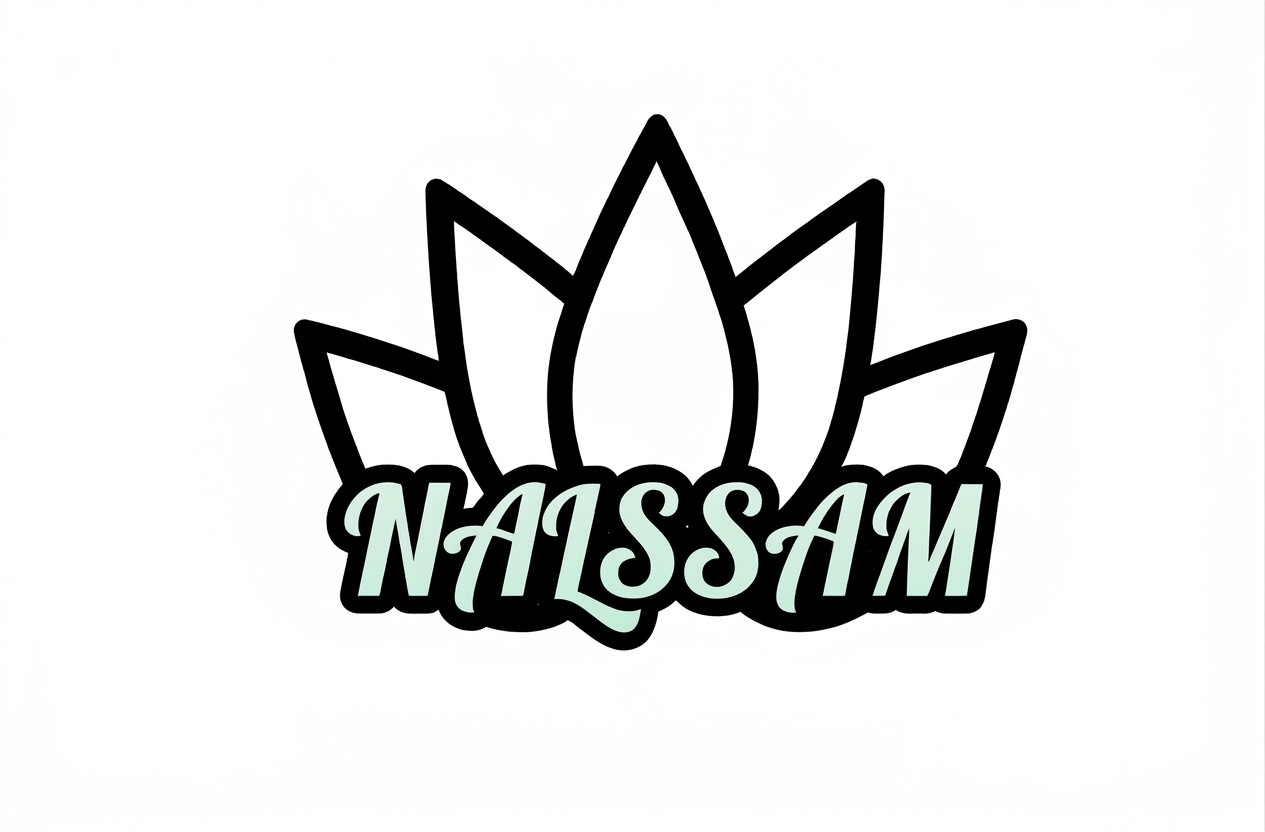
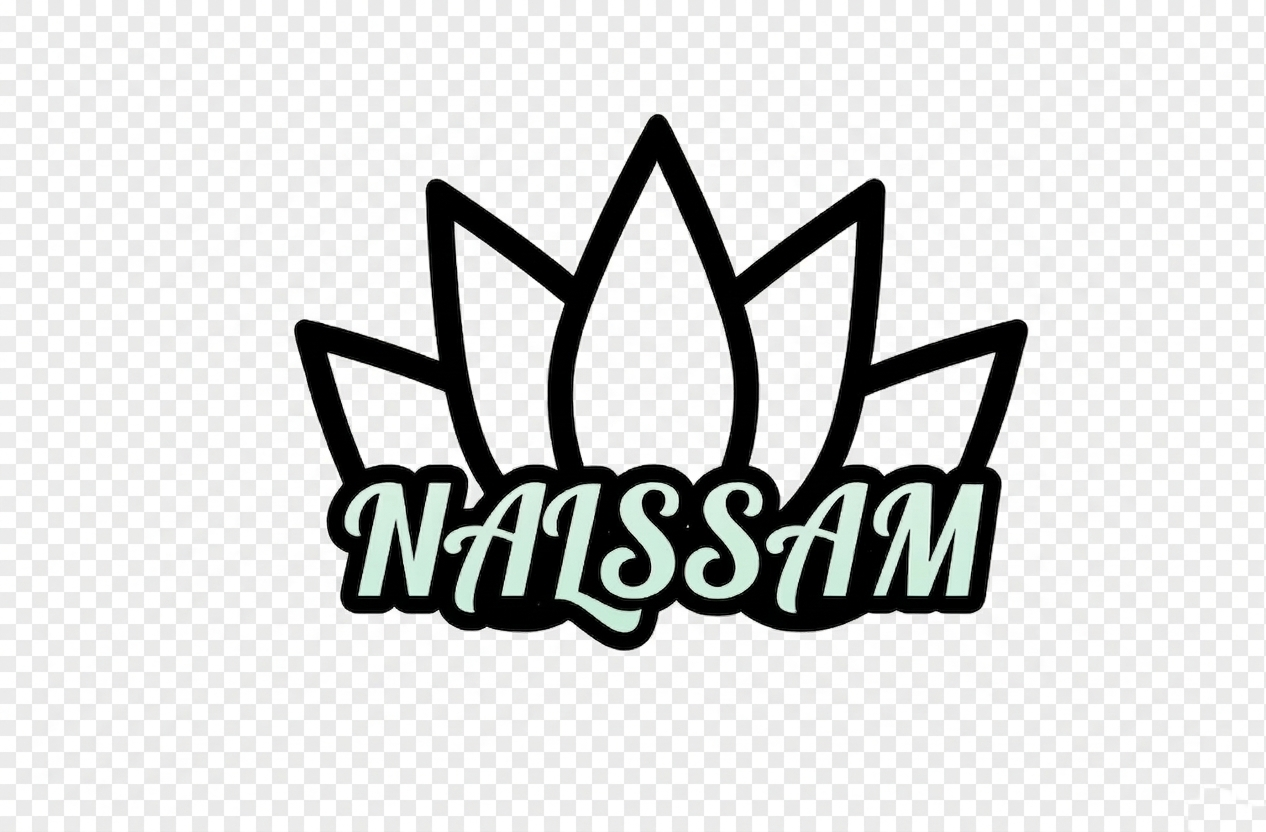
feat: Admin Dashboard 버그 제보 모달 추가 + 동아리 로고 업데이트
- 채팅 헤더에 '버그 제보' 버튼 추가 (Admin 전용, 미해결 건수 뱃지)
- 버튼 클릭 시 전체 bug_reports 팝업 표시
- Admin이 체크박스로 해결 표시 → 취소선 + 흐림 처리
- resolved 상태 Supabase 즉시 반영 (bug_reports.resolved 컬럼)
- 동아리 로고 이미지 업데이트 (nalssam, path-finder, unify)

diff --git a/app/admin-dashboard/page.tsx b/app/admin-dashboard/page.tsx
@@ -4,7 +4,7 @@
 import { useState, useEffect, useRef, useCallback } from 'react';
 import {
   Users, Shield, BarChart2, Send,
-  CheckCircle2, XCircle, AlertTriangle, Bell, Bug,
+  CheckCircle2, XCircle, AlertTriangle, Bell, Bug, X,
 } from 'lucide-react';
 import { createClient } from '@/lib/supabase/client';
 import { cn } from '@/utils/cn';
@@ -18,7 +18,7 @@ type AgendaRow    = { id: string; title: string; category: string; is_open: bool
 type ConfirmModal = { title: string; body: string; onConfirm: () => Promise<void> };
 type MyProfile    = { id: string; name: string; role: string };
 type AdminCall    = { id: string; caller_id: string; caller_name: string; created_at: string };
-type BugReport    = { id: string; reporter_name: string; title: string; description: string; category: string; created_at: string };
+type BugReport    = { id: string; reporter_name: string; title: string; description: string; category: string; created_at: string; resolved: boolean };
 
 const ADMIN_COMMANDS = ['/kick', '/ban', '/timeout', '/announcement'];
 const CMD_HINT: Record<string, string> = {
@@ -54,12 +54,15 @@ export default function AdminDashboardPage() {
   const [logs, setLogs]                 = useState<AdminLog[]>([]);
   const [agendas, setAgendas]           = useState<AgendaRow[]>([]);
   const [pendingCalls, setPendingCalls] = useState<AdminCall[]>([]);
-  const [bugReports, setBugReports]     = useState<BugReport[]>([]);
-  const [chatInput, setChatInput]       = useState('');
-  const [showCmds, setShowCmds]         = useState(false);
-  const [confirmModal, setConfirmModal] = useState<ConfirmModal | null>(null);
-  const [confirming, setConfirming]     = useState(false);
-  const [sending, setSending]           = useState(false);
+  const [bugReports, setBugReports]         = useState<BugReport[]>([]);
+  const [showBugModal, setShowBugModal]     = useState(false);
+  const [allBugReports, setAllBugReports]   = useState<BugReport[]>([]);
+  const [bugModalLoading, setBugModalLoading] = useState(false);
+  const [chatInput, setChatInput]           = useState('');
+  const [showCmds, setShowCmds]             = useState(false);
+  const [confirmModal, setConfirmModal]     = useState<ConfirmModal | null>(null);
+  const [confirming, setConfirming]         = useState(false);
+  const [sending, setSending]               = useState(false);
   const bottomRef     = useRef<HTMLDivElement>(null);
   const announceChRef = useRef<ReturnType<typeof supabase.channel> | null>(null);
 
@@ -161,18 +164,18 @@ export default function AdminDashboardPage() {
       if (prof?.role === 'admin') {
         const { data: bugsInit } = await supabase
           .from('bug_reports')
-          .select('id, title, description, category, created_at, profiles!reporter_id(name)')
+          .select('id, title, description, category, created_at, resolved, profiles!reporter_id(name)')
           .order('created_at', { ascending: false })
           .limit(10);
         if (bugsInit) {
-          setBugReports(bugsInit.map((b: any) => ({ ...b, reporter_name: b.profiles?.name ?? '알 수 없음' })));
+          setBugReports(bugsInit.map((b: any) => ({ ...b, reporter_name: b.profiles?.name ?? '알 수 없음', resolved: b.resolved ?? false })));
         }
 
         bugCh = supabase.channel('bug-report-stream')
           .on('postgres_changes', { event: 'INSERT', schema: 'public', table: 'bug_reports' }, async (payload: { new: any }) => {
             const row = payload.new;
             const { data: p } = await supabase.from('profiles').select('name').eq('id', row.reporter_id).single();
-            setBugReports((prev: BugReport[]) => [{ ...row, reporter_name: p?.name ?? '알 수 없음' }, ...prev].slice(0, 10));
+            setBugReports((prev: BugReport[]) => [{ ...row, reporter_name: p?.name ?? '알 수 없음', resolved: false }, ...prev].slice(0, 10));
           })
           .subscribe();
       }
@@ -336,6 +339,31 @@ export default function AdminDashboardPage() {
     await refreshAgendas();
   }, [supabase, refreshAgendas]);
 
+  // ── 버그 제보 모달 열기 (전체 목록 fetch) ─────────────────────────
+  const openBugModal = useCallback(async () => {
+    setShowBugModal(true);
+    setBugModalLoading(true);
+    const { data } = await supabase
+      .from('bug_reports')
+      .select('id, title, description, category, created_at, resolved, profiles!reporter_id(name)')
+      .order('created_at', { ascending: false });
+    if (data) {
+      setAllBugReports(data.map((b: any) => ({
+        ...b,
+        reporter_name: b.profiles?.name ?? '알 수 없음',
+        resolved: b.resolved ?? false,
+      })));
+    }
+    setBugModalLoading(false);
+  }, [supabase]);
+
+  // ── 버그 해결 토글 ────────────────────────────────────────────────
+  const toggleBugResolved = useCallback(async (id: string, resolved: boolean) => {
+    await supabase.from('bug_reports').update({ resolved }).eq('id', id);
+    setAllBugReports((prev: BugReport[]) => prev.map((b: BugReport) => b.id === id ? { ...b, resolved } : b));
+    setBugReports((prev: BugReport[]) => prev.map((b: BugReport) => b.id === id ? { ...b, resolved } : b));
+  }, [supabase]);
+
   if (!myProfile) {
     return (
       <div className="h-[calc(100vh-4rem)] flex items-center justify-center">
@@ -347,6 +375,70 @@ export default function AdminDashboardPage() {
   // ── 렌더 ─────────────────────────────────────────────────────────
   return (
     <>
+      {/* 버그 제보 모달 */}
+      {showBugModal && (
+        <div className="fixed inset-0 z-50 flex items-center justify-center bg-black/50 backdrop-blur-sm">
+          <div className="bg-white dark:bg-dark-surface rounded-2xl shadow-2xl w-full max-w-lg mx-4 flex flex-col max-h-[80vh]">
+            <div className="flex items-center gap-2 px-6 py-4 border-b border-gray-100 dark:border-dark-border shrink-0">
+              <Bug size={16} className="text-red-primary dark:text-yellow-primary" />
+              <span className="font-bold text-gray-800 dark:text-white flex-1">버그 제보 전체 목록</span>
+              <button
+                onClick={() => setShowBugModal(false)}
+                className="p-1.5 rounded-lg text-gray-400 hover:text-gray-600 dark:hover:text-gray-300 hover:bg-gray-100 dark:hover:bg-dark-bg transition-colors"
+              >
+                <X size={16} />
+              </button>
+            </div>
+            <div className="flex-1 overflow-y-auto p-4 space-y-3">
+              {bugModalLoading ? (
+                <p className="text-sm text-gray-400 dark:text-gray-500 text-center py-8">로딩 중...</p>
+              ) : allBugReports.length === 0 ? (
+                <p className="text-sm text-gray-400 dark:text-gray-500 text-center py-8">제보 없음</p>
+              ) : (
+                allBugReports.map((bug: BugReport) => (
+                  <div
+                    key={bug.id}
+                    className={cn(
+                      'rounded-xl border px-4 py-3 space-y-1.5 transition-all',
+                      bug.resolved
+                        ? 'bg-gray-50 dark:bg-dark-bg border-gray-100 dark:border-dark-border opacity-60'
+                        : 'bg-red-primary/5 border-red-primary/20'
+                    )}
+                  >
+                    <div className="flex items-start gap-3">
+                      <input
+                        type="checkbox"
+                        checked={bug.resolved}
+                        onChange={(e: { target: { checked: boolean } }) => toggleBugResolved(bug.id, e.target.checked)}
+                        className="mt-0.5 shrink-0 accent-red-primary dark:accent-yellow-primary w-4 h-4 cursor-pointer"
+                      />
+                      <div className="flex-1 min-w-0 space-y-1">
+                        <div className="flex items-center gap-1.5 flex-wrap">
+                          <span className={cn('text-xs font-bold text-red-primary shrink-0', bug.resolved && 'line-through')}>
+                            [{bug.category}]
+                          </span>
+                          <span className={cn('text-sm font-semibold text-gray-800 dark:text-gray-200', bug.resolved && 'line-through')}>
+                            {bug.title}
+                          </span>
+                        </div>
+                        <p className={cn('text-xs text-gray-500 dark:text-gray-400 leading-relaxed', bug.resolved && 'line-through')}>
+                          {bug.description}
+                        </p>
+                        <div className="flex items-center gap-1.5 text-xs text-gray-400 dark:text-gray-500">
+                          <span>{bug.reporter_name}</span>
+                          <span>·</span>
+                          <span>{fmt(bug.created_at)}</span>
+                        </div>
+                      </div>
+                    </div>
+                  </div>
+                ))
+              )}
+            </div>
+          </div>
+        </div>
+      )}
+
       {/* 확인 모달 */}
       {confirmModal && (
         <div className="fixed inset-0 z-50 flex items-center justify-center bg-black/50 backdrop-blur-sm">
@@ -458,6 +550,20 @@ export default function AdminDashboardPage() {
               <span className="text-xs px-2 py-0.5 rounded-full bg-yellow-primary/10 text-yellow-primary font-semibold border border-yellow-primary/20">
                 Mod
               </span>
+            )}
+            {isAdmin && (
+              <button
+                onClick={openBugModal}
+                className="flex items-center gap-1.5 px-2.5 py-1.5 rounded-lg text-xs font-semibold bg-red-primary/10 text-red-primary hover:bg-red-primary/20 dark:bg-yellow-primary/10 dark:text-yellow-primary dark:hover:bg-yellow-primary/20 transition-colors"
+              >
+                <Bug size={12} />
+                버그 제보
+                {bugReports.filter((b: BugReport) => !b.resolved).length > 0 && (
+                  <span className="px-1.5 py-0.5 rounded-full bg-red-primary dark:bg-yellow-primary text-white dark:text-gray-900 text-xs font-bold min-w-[1.25rem] text-center leading-none">
+                    {bugReports.filter((b: BugReport) => !b.resolved).length}
+                  </span>
+                )}
+              </button>
             )}
           </div>
 
